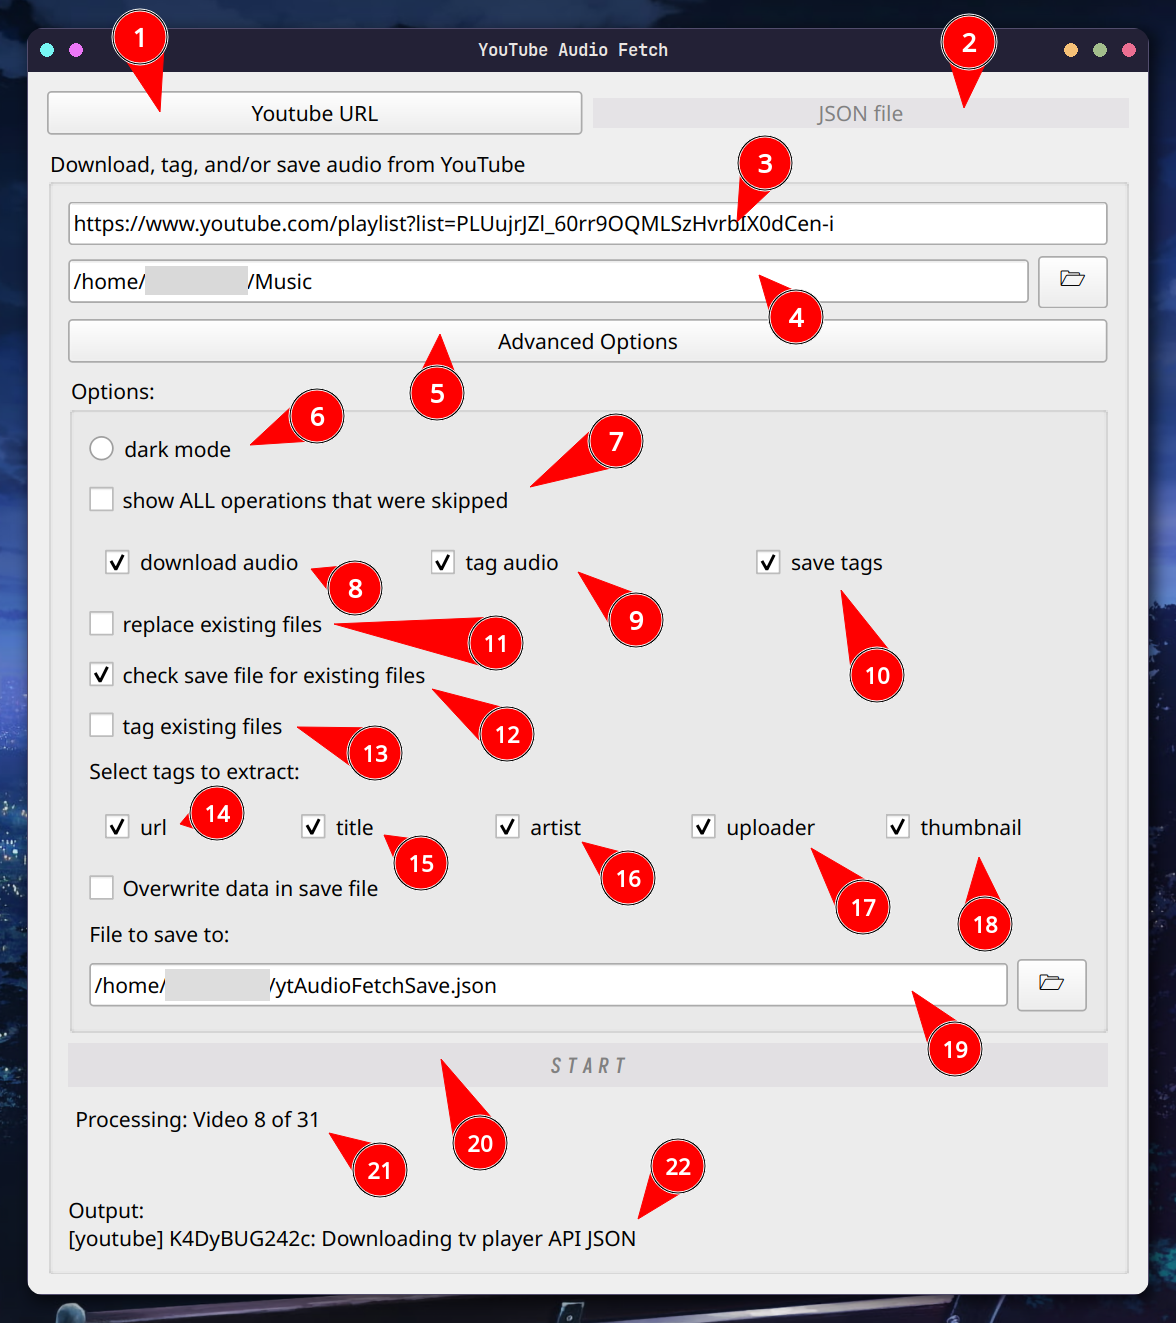
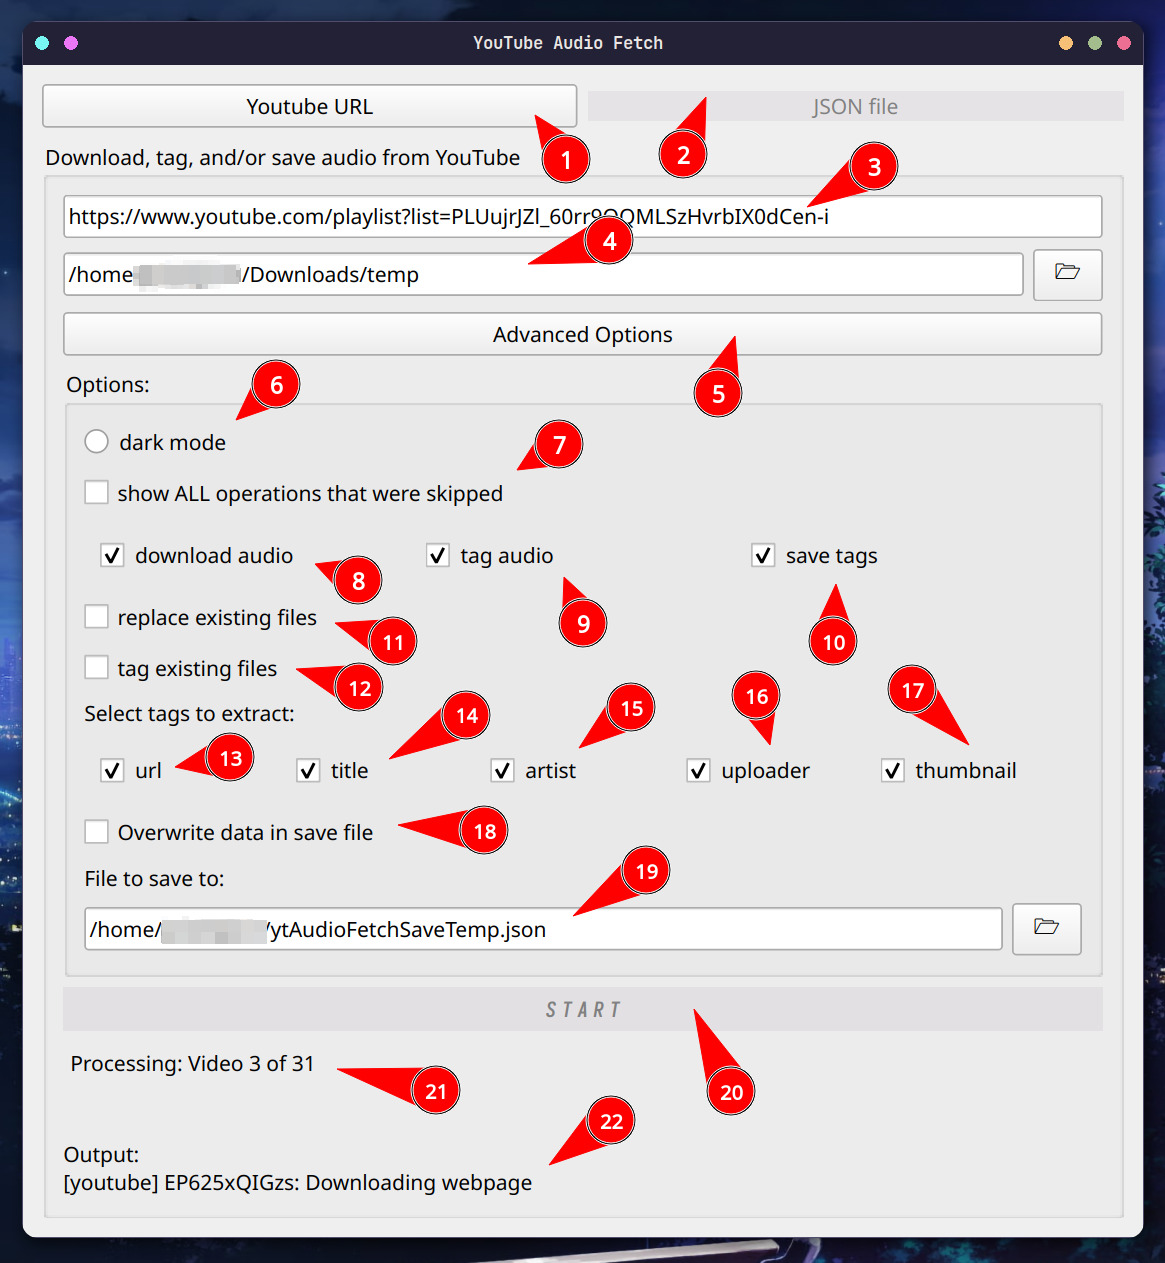
Fixed unpacking issue, updated images with new design

Changed region(s): [[0.0, 0.0, 1.0, 1.0], [0.4326, 0.3088, 0.5562, 0.3705], [0.4944, 0.5249, 0.5562, 0.5867]]

diff --git a/ytAudioFetch.py b/ytAudioFetch.py
@@ -81,7 +81,7 @@ def ytafURL(arguments: Dict) -> List[Tuple[str, str]]:
     for i, entry in enumerate(info.get("entries", []), start=1): # Process each entry in the info
         print(Fore.BLUE + f"Video {i} of {len(info.get('entries', []))}")
         processEntryURL(
-            entry, ydlOpts, saveData, saveFilePath, downloading, tagging,
+            entry, ydlOpts, saveData, downloading, tagging,
             saving, replacingFiles, tagExisting, overwriteSave,
             changeableTags, skipList, verboseSkipList
         )
